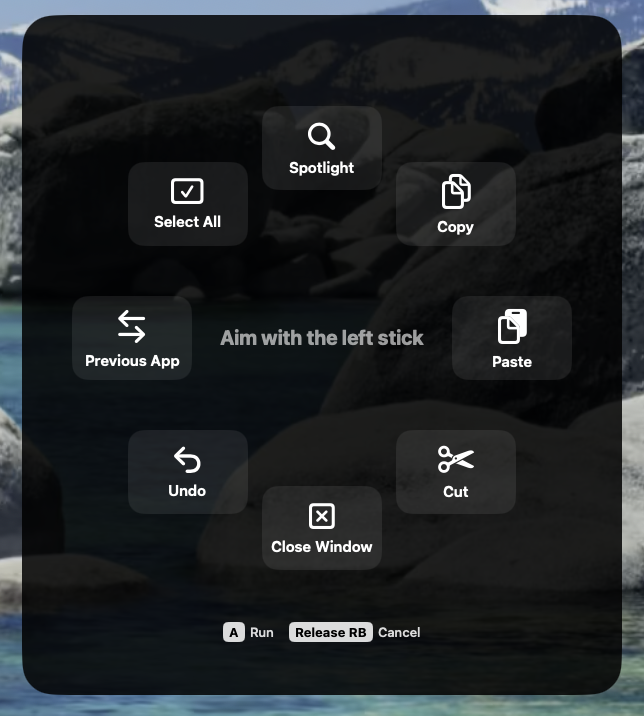
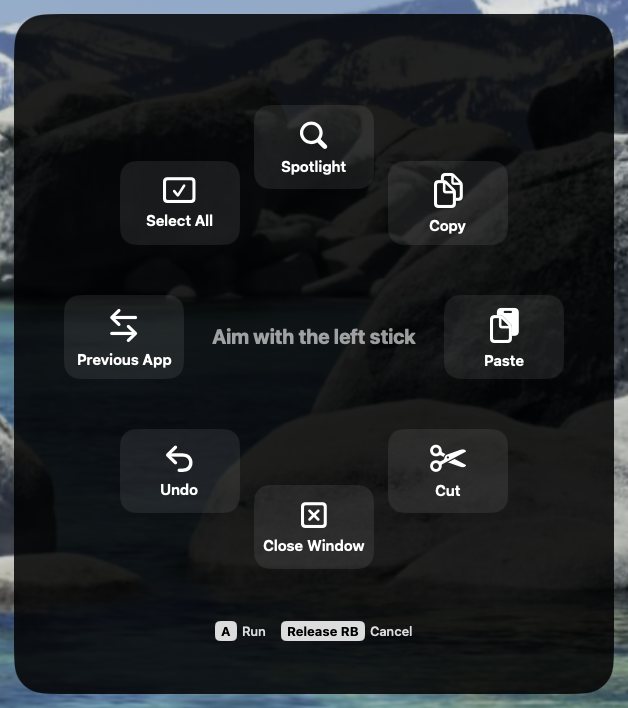
docs: crop overlay screenshots to matching size

diff --git a/README.md b/README.md
@@ -7,8 +7,8 @@ MacMyController is a small, native menu-bar app for couch computing. Pick up an 
 It's deliberately simple: sensible fixed controls that work out of the box, not a button-mapping editor.
 
 <p align="center">
-  <img src="docs/images/spiral-keyboard.png" alt="The spiral keyboard: letters wind around a coil, with the selected letter highlighted in yellow and a controller legend underneath" width="400">
-  <img src="docs/images/shortcut-wheel.png" alt="The shortcut wheel: eight labelled shortcuts arranged in a circle, including Spotlight, Copy, Paste and Previous App" width="385">
+  <img src="docs/images/spiral-keyboard.png" alt="The spiral keyboard: letters wind around a coil, with the selected letter highlighted in yellow and a controller legend underneath" width="390">
+  <img src="docs/images/shortcut-wheel.png" alt="The shortcut wheel: eight labelled shortcuts arranged in a circle, including Spotlight, Copy, Paste and Previous App" width="390">
 </p>
 
 > Inspired by [Controller Companion](https://store.steampowered.com/app/367670/Controller_Companion/) on Windows. MacMyController is an independent implementation for macOS.
